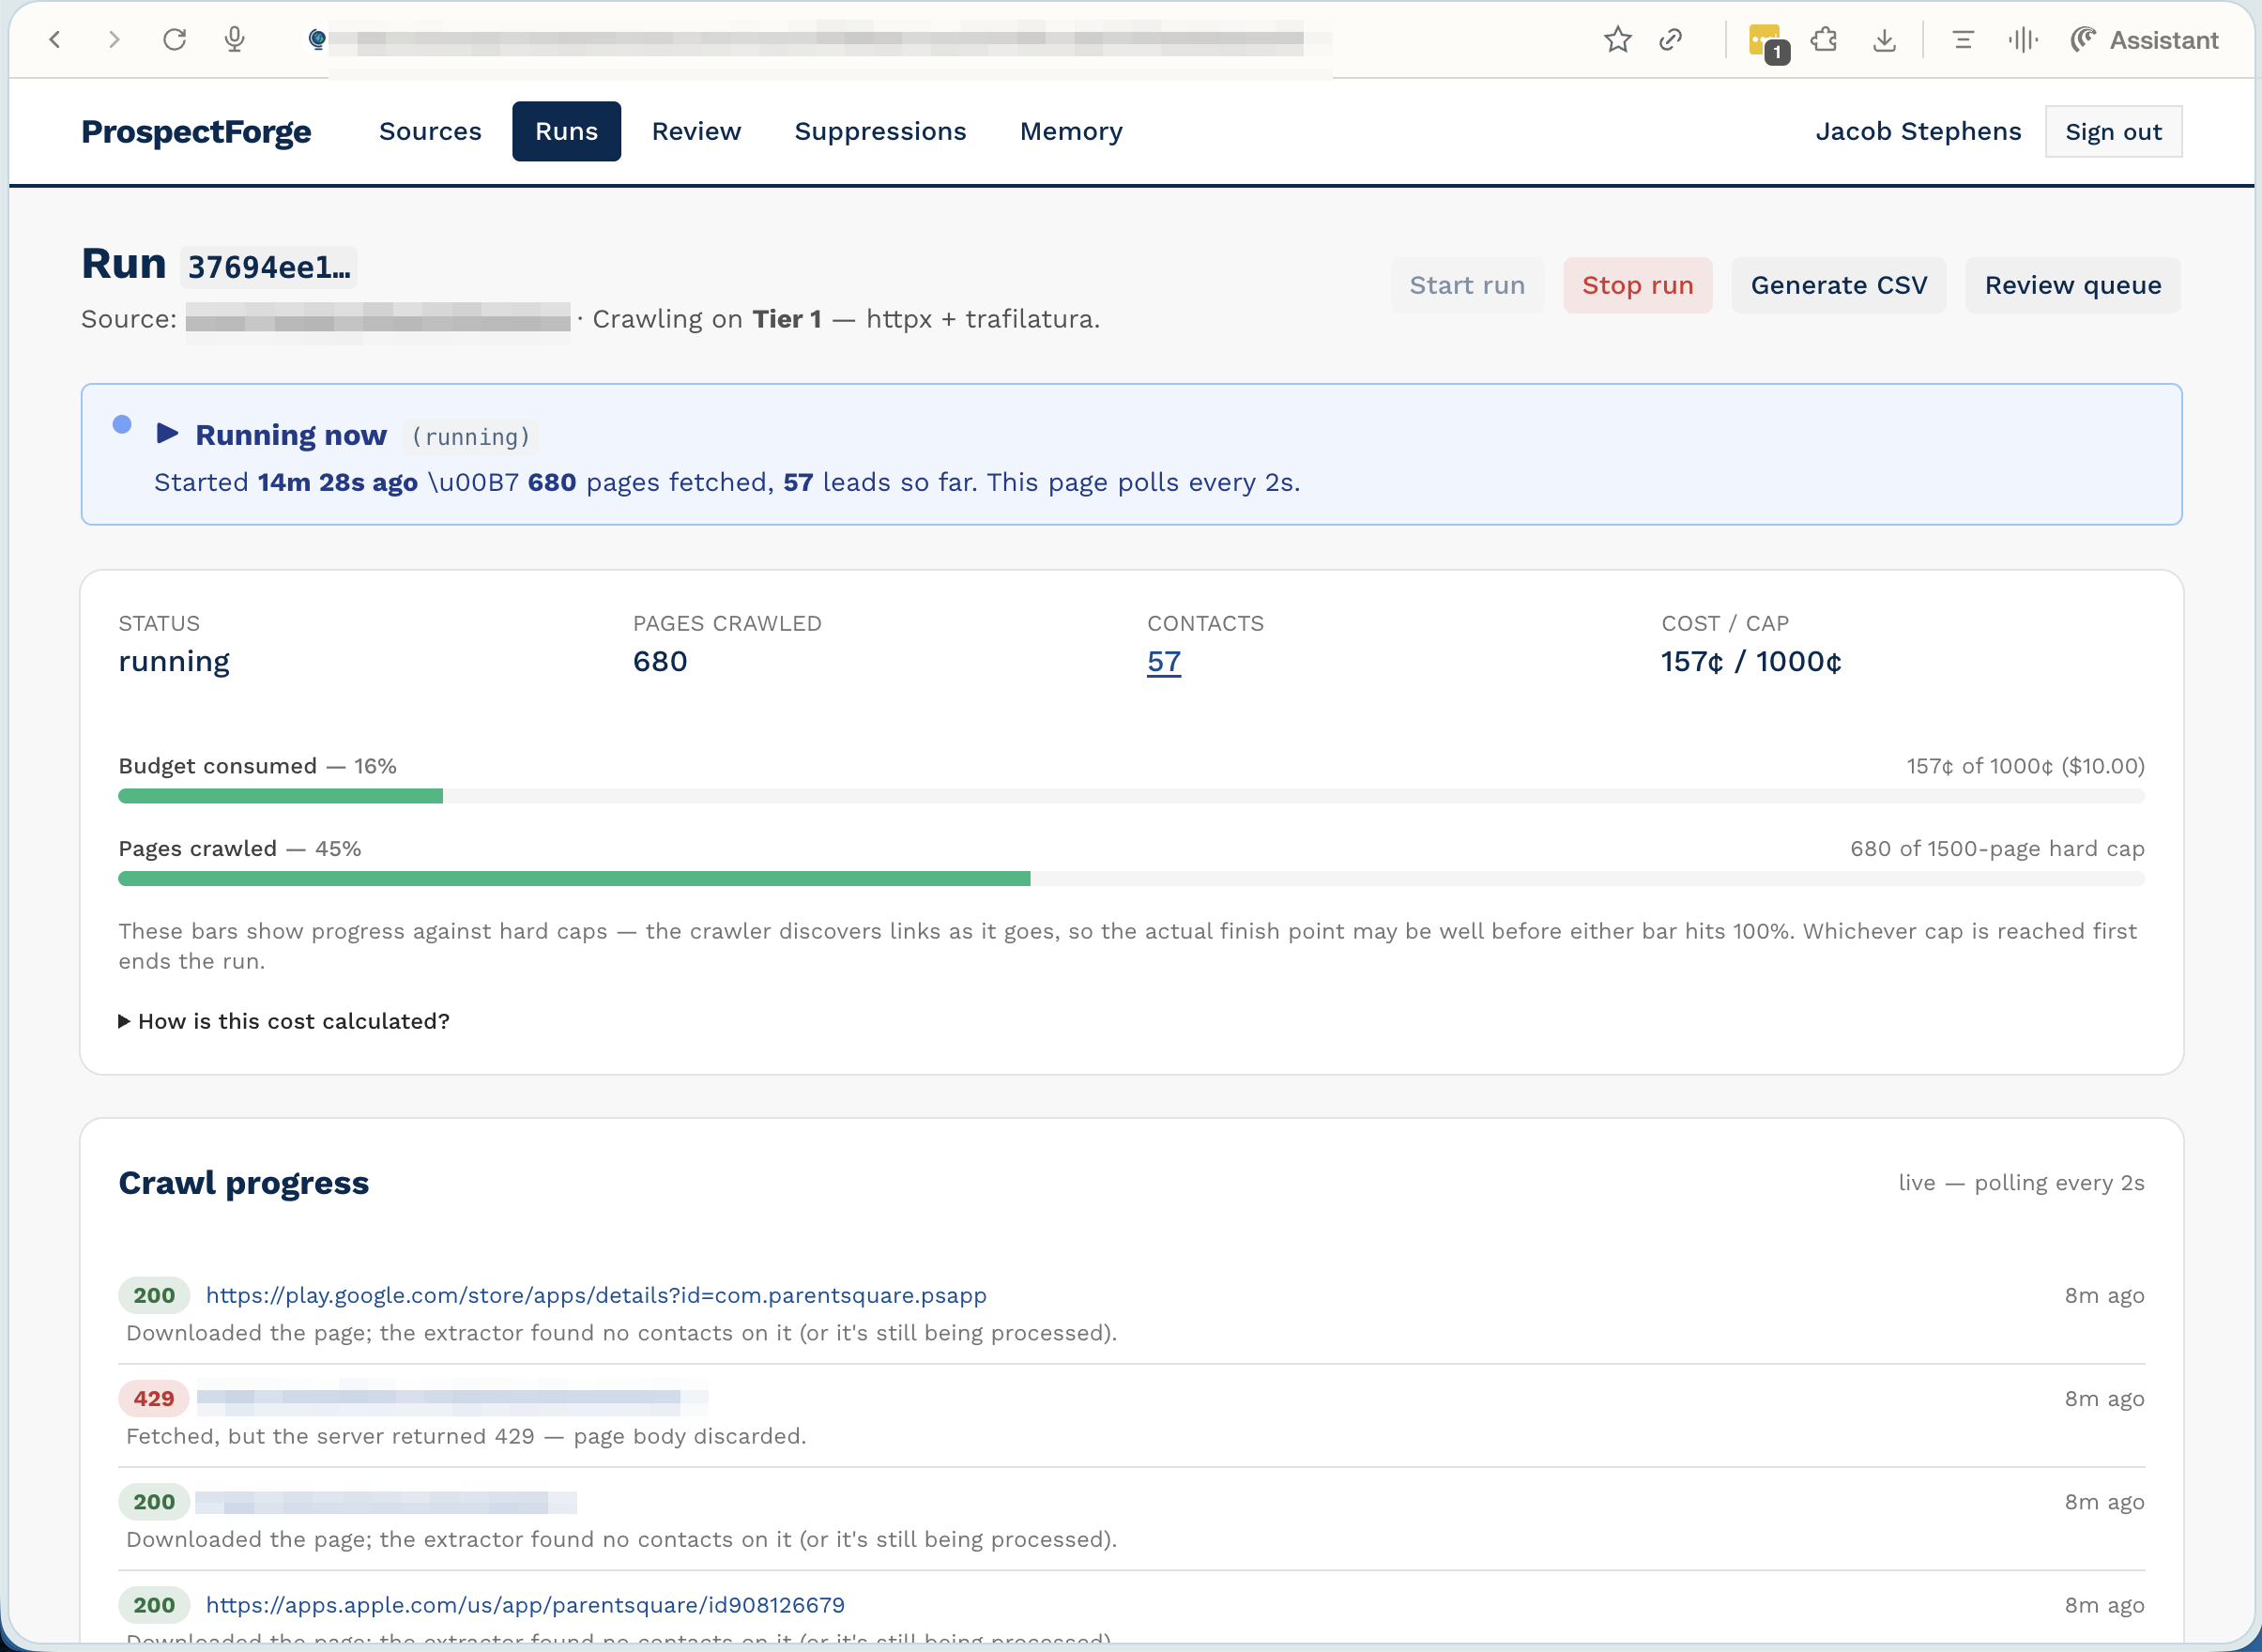
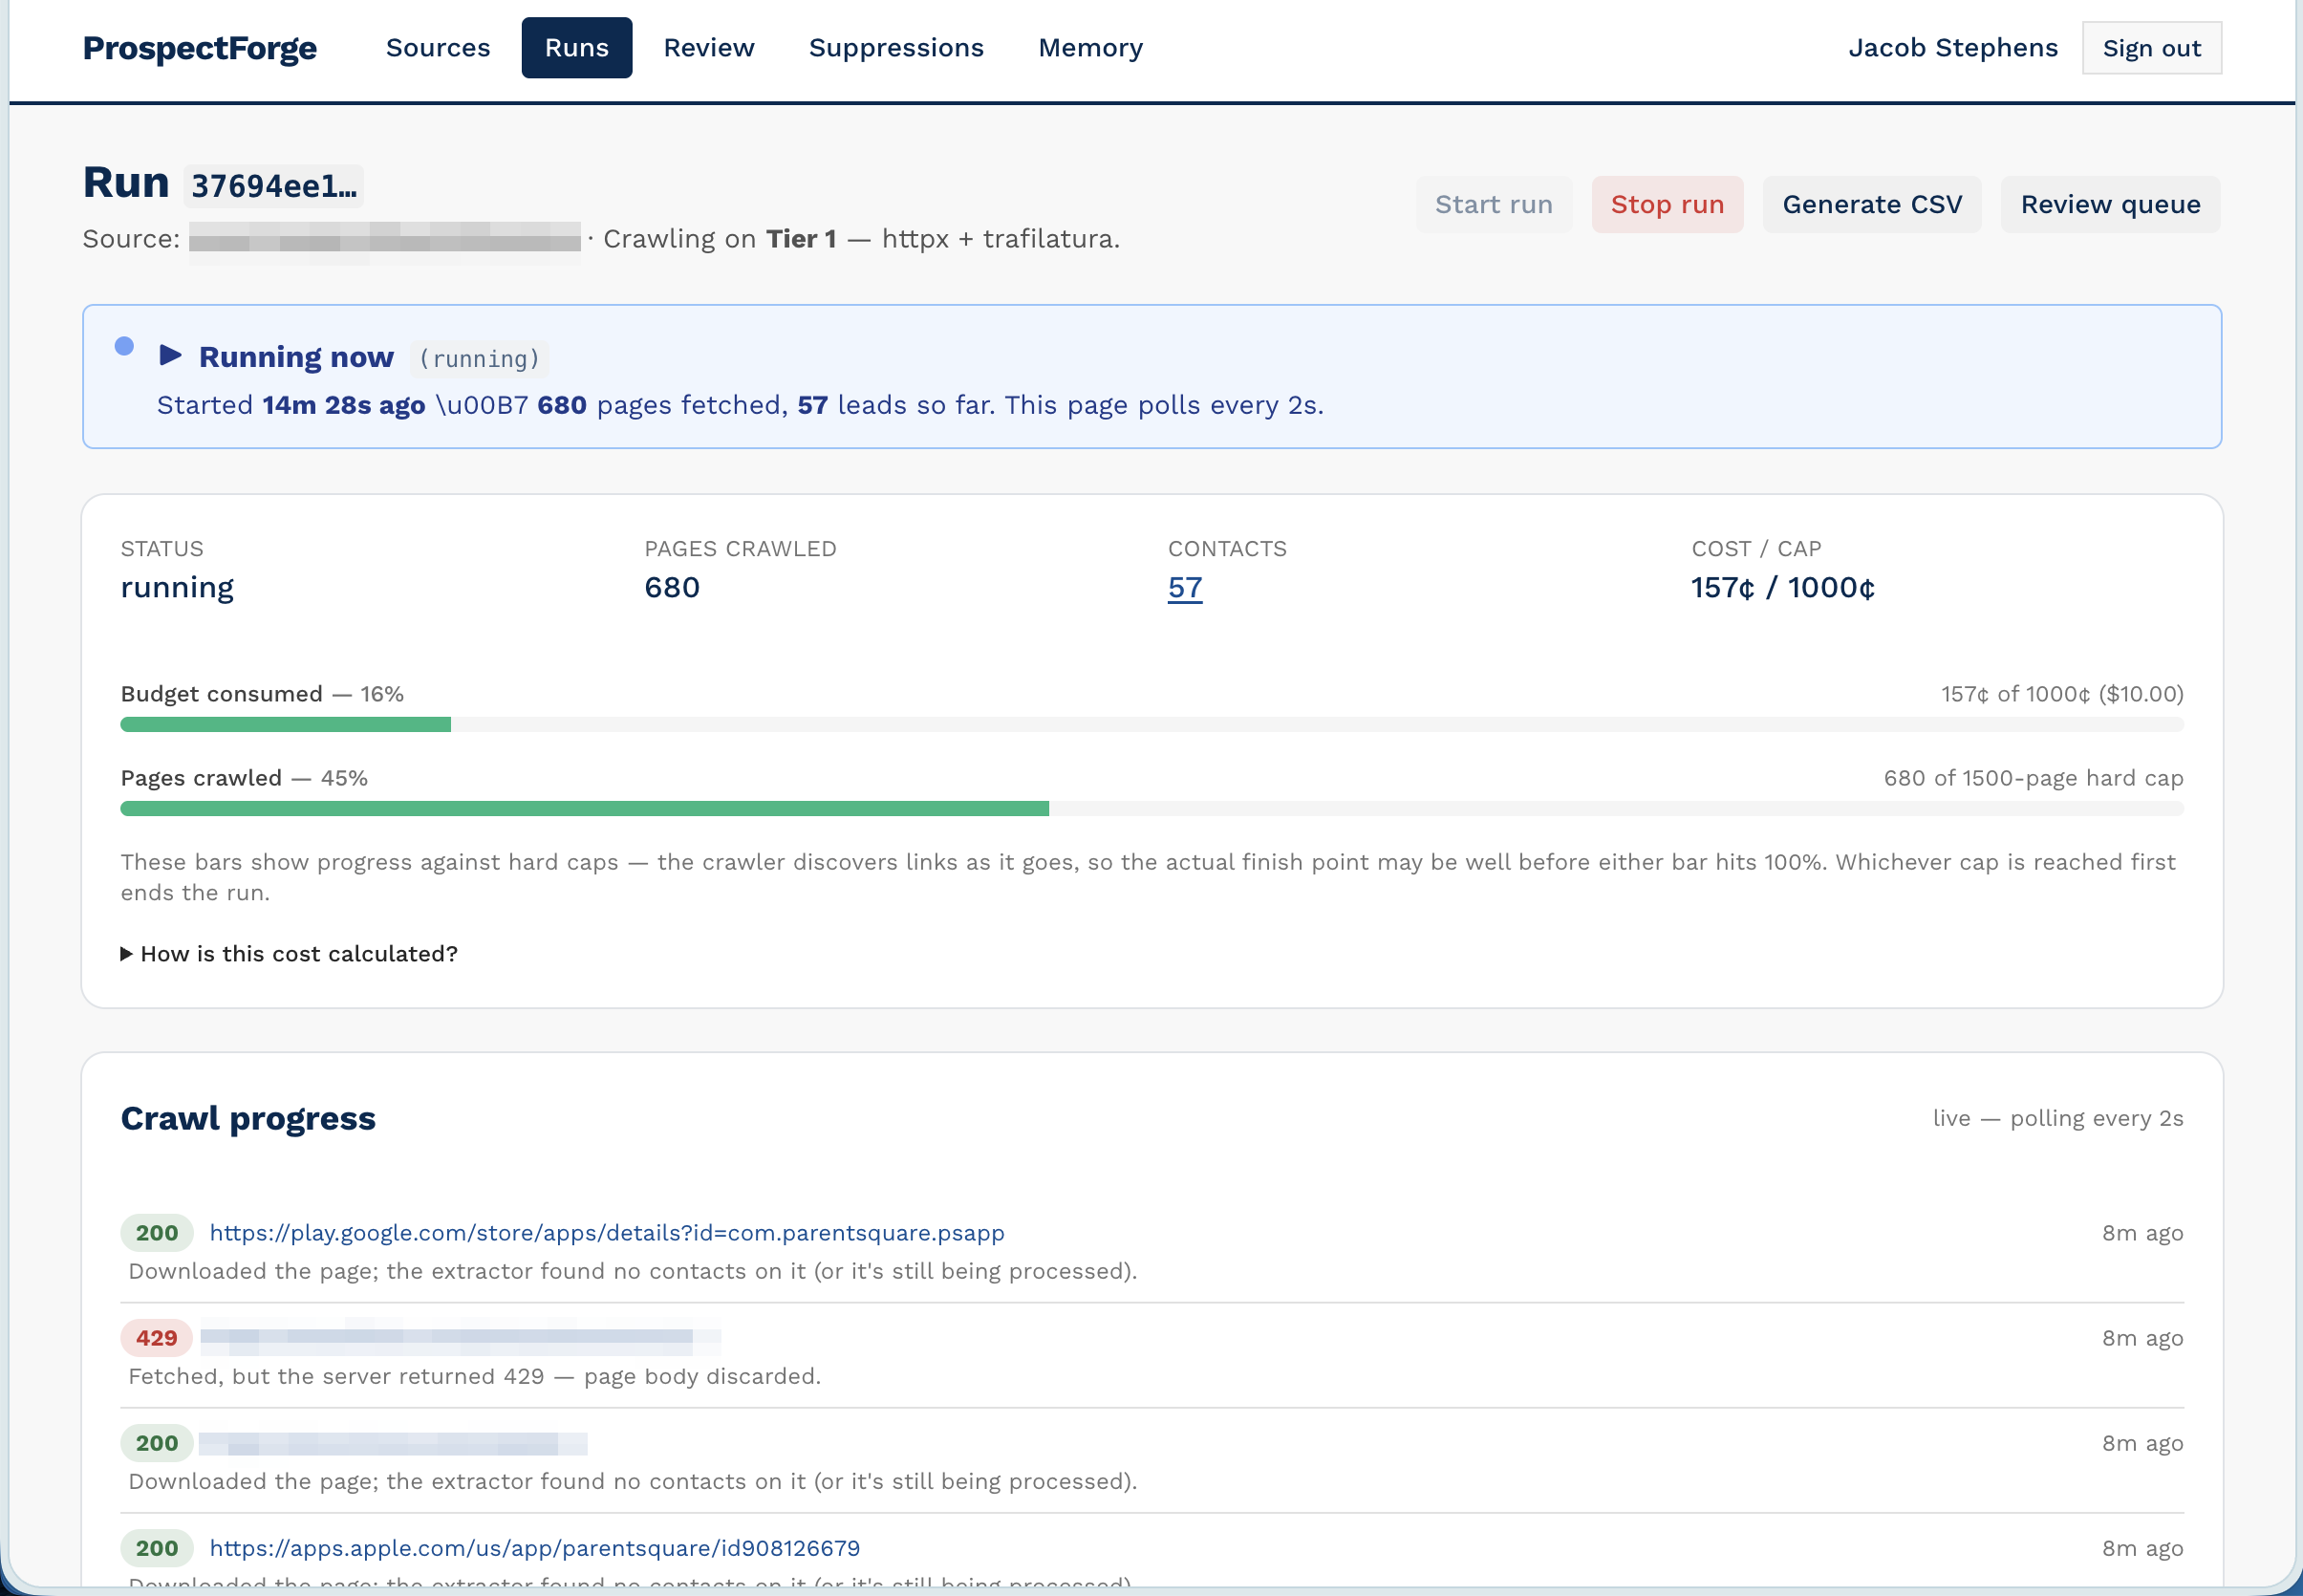
portfolio: redacted customer-portal screenshot; crop browser chrome off ProspectForge; redact bank/host/amount in ACH SVG

diff --git a/portfolio.html b/portfolio.html
@@ -657,8 +657,8 @@
                     </article>
 
                     <article class="portfolio-item" id="eta-customer-portal">
-                        <button class="image-button" type="button" data-image="screenshots/customerweb.etadventures.com.png" data-title="ETA Customer Portal screenshot">
-                            <img src="screenshots/customerweb.etadventures.com.png" alt="ETA Customer Portal - group leader and traveler self-service" class="portfolio-image">
+                        <button class="image-button" type="button" data-image="screenshots/eta-customer-portal.png" data-title="ETA Customer Portal screenshot">
+                            <img src="screenshots/eta-customer-portal.png" alt="ETA Customer Portal - group leader and traveler self-service" class="portfolio-image">
                         </button>
                         <div class="portfolio-content">
                             <h3 class="portfolio-title">ETA Customer Portal</h3>